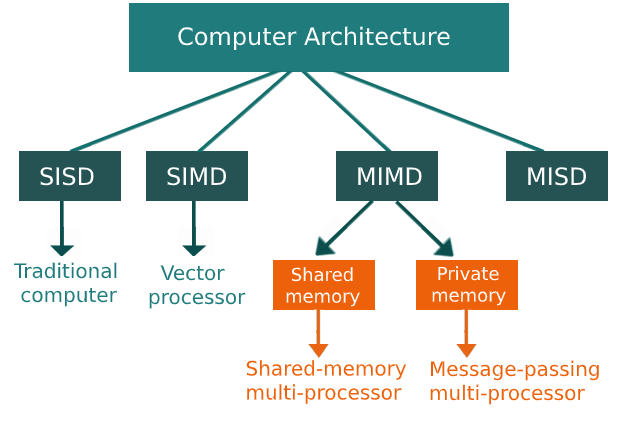
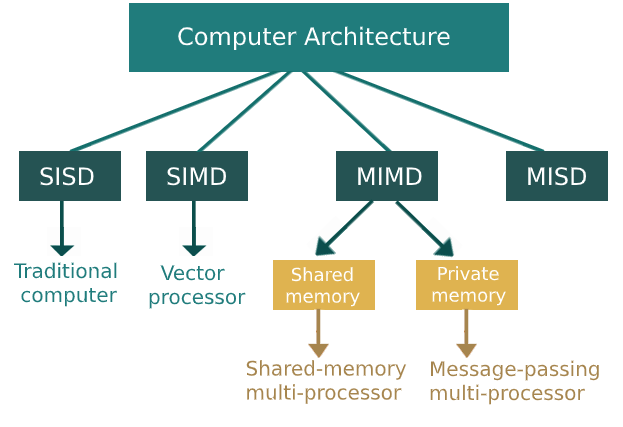
adding custom css

Changed region(s): [[0.3965, 0.6089, 0.9759, 0.9438]]

diff --git a/custom.css b/custom.css
@@ -1,0 +1,97 @@
+.reveal,
+.reveal h1,
+.reveal h2,
+.reveal h3,
+.reveal h4,
+.reveal h5,
+.reveal h6 {
+    font-family: 'Roboto', sans-serif;
+}
+
+.reveal body {
+    color: #6B6B6B;
+    word-wrap: break-word;
+    font-family: 'Roboto', sans-serif;
+    line-height: 1.7;
+    font-size: 16px;
+}
+
+.reveal h1 {
+    color: #007833;
+    font-weight: 500;
+    font-size: 38px;
+    font-family: 'Roboto', sans-serif;
+    line-height: 1.1;
+}
+
+.reveal h2 {
+    color: #444;
+    font-size: 28px;
+    font-weight: 700;
+    font-family: 'Roboto', sans-serif;
+    line-height: 56px;
+    margin-bottom: 20px;
+    margin-top: 20px;
+}
+
+.reveal h3 {
+    color: #444;
+    font-size: 20px;
+    font-family: 'Roboto', sans-serif;
+    font-weight: 700;
+    line-height: 1.1;
+    margin-bottom: 20px;
+    margin-top: 20px;
+}
+
+.reveal h4 {
+    color: #444;
+    font-size: 16px;
+    font-family: 'Roboto', sans-serif;
+    font-weight: 700;
+    line-height: 56px;
+    margin-bottom: 20px;
+    margin-top: 20px;
+}
+
+.reveal h5 {
+    color: #444;
+    font-size: 14px;
+    font-family: 'Roboto', sans-serif;
+    font-weight: 700;
+    line-height: 1.1;
+    margin-bottom: 10px;
+    margin-top: 20px;
+}
+
+a {
+    color: #007833;
+}
+
+.external-link:after {
+    content: "\f08e";
+    font-family: FontAwesome;
+    font-style: normal;
+    font-weight: normal;
+    text-decoration: inherit;
+    padding-left: 0.2em;
+}
+
+.background-dark {
+   padding: 15px 15px 5px;
+    display: inline-block;
+    margin: 5px 0 15px;
+    border-radius: 5px;
+    background-color: #323a45;
+    max-width: 53rem;
+}
+
+.background-dark a {
+    color: #b0b0b1;
+    text-decoration: underline;
+}
+
+.background-dark p {
+    color: #ffffff;
+}
+

diff --git a/index.html b/index.html
@@ -15496,7 +15496,7 @@ require(
         bottom: 0%;
         left: 33%;
         background-color: #dfb350;
-        color: #F8F8F8;
+        color: #FAFAFA;
 	width: 33%;
 	font-size: 12px;
 	text-align: center;
